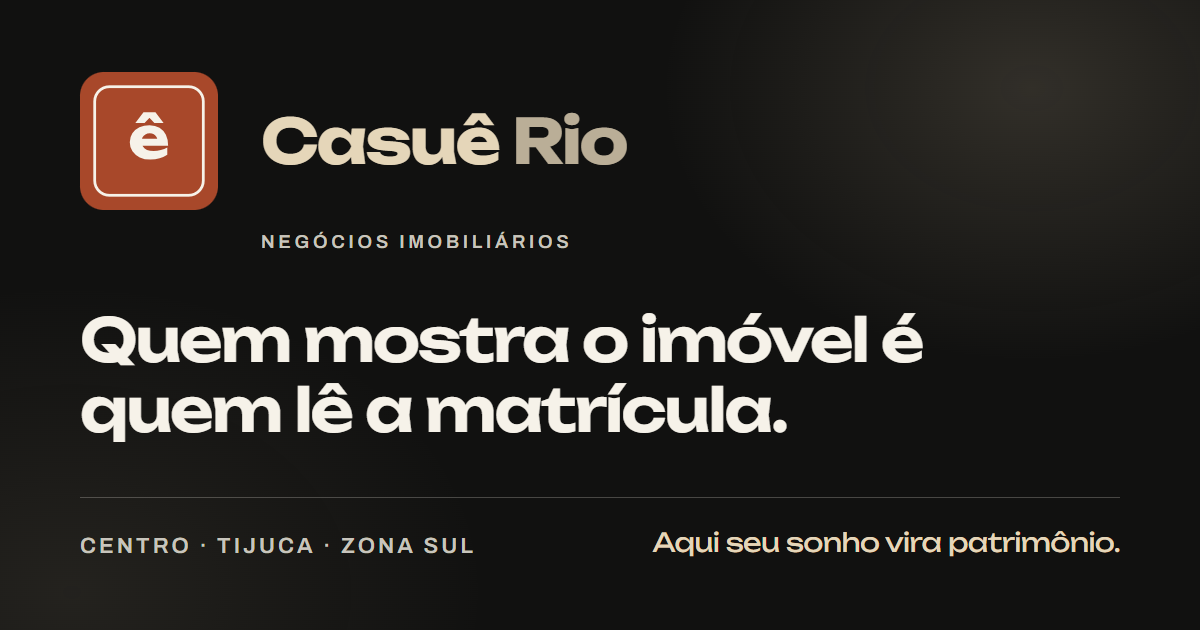
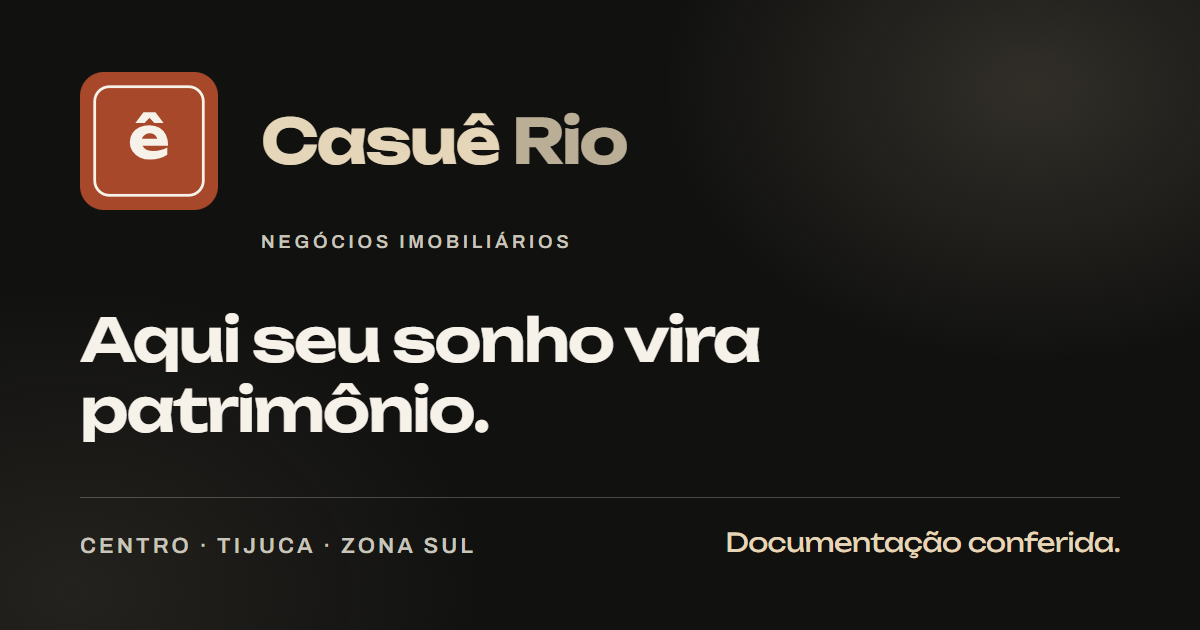
feat(marca): o slogan vira a manchete, e a revista liga sozinha
As sócias não gostaram de "Quem mostra o imóvel é quem lê a matrícula". Ela
não era uma frase secundária: era o h1 da home, o título do cartão de
compartilhamento e a descrição do site na busca, ou seja, a primeira coisa
que qualquer pessoa lia. Saiu de tudo, e a constante FRASE deixou de existir.

Quem assumiu é o SLOGAN, "Aqui seu sonho vira patrimônio", que é delas e que
elas já tinham pedido para usar mais. Duas frases de marca no código davam
dois títulos concorrentes, e foi por isso que a home chegou a mostrar as duas
em telas seguidas; agora é uma só.

A faixa de vídeo da home, que carregava o slogan, passou a dizer o que o
vídeo mostra e que precisava de legenda: por que o cômodo está vazio.

🔴 O cartão de compartilhamento saiu CORTADO na primeira tentativa: a linha
do rodapé passava da borda de 1200px em Unbounded 26. Encurtada e conferida
no PNG, não no código.

REVISTA: a página do artigo agora liga e desliga sozinha.

`scripts/preparar-revista.mjs` roda antes de todo build, pergunta ao painel
quantos artigos estão publicados e copia `_artigo/` para `[slug]/` se houver,
ou apaga se não houver. Provado nos dois sentidos: criei um artigo de ensaio,
o build gerou `/revista/ensaio-temporario` com título, data, autora e corpo
certos, apaguei o artigo e a rota se desligou.

A versão anterior disto era um `mv` na mão escrito no README, e estava
errado: significava que no dia da primeira publicação o site republicaria sem
[…]

Changed region(s): [[0.0617, 0.4825, 0.7708, 0.6032], [0.0617, 0.6032, 0.6783, 0.6937], [0.5242, 0.8444, 0.925, 0.9048]]

diff --git a/web/src/app/page.tsx b/web/src/app/page.tsx
@@ -45,11 +45,14 @@ export default function Home() {
       <Abertura>
         <EntradaAbertura>
           <Painel variante="escuro" className="max-w-3xl rounded-[1rem] p-8 sm:p-12">
+            {/* 🔴 O h1 mudou em 17/09/2026. Era "Quem mostra o imóvel é quem
+                lê a matrícula.", e as sócias não gostaram. Quem assumiu é o
+                slogan delas, que já era o pedido: usar essa frase mais. */}
             <h1
               data-entra="titulo"
-              className="max-w-[19ch] font-display text-[clamp(1.9rem,min(5.2vw,6.4svh),4.25rem)] leading-[1.03] text-papel"
+              className="max-w-[16ch] font-display text-[clamp(1.9rem,min(5.2vw,6.4svh),4.25rem)] leading-[1.03] text-papel"
             >
-              Quem mostra o imóvel é quem lê a matrícula.
+              {SLOGAN}
             </h1>
           </Painel>
 
@@ -129,21 +132,25 @@ export default function Home() {
         </div>
       </Revela>
 
-      {/* ======================================================== SLOGAN
-          O slogan da marca, dentro do imóvel. Chega DEPOIS de a página ter
-          mostrado o que promete, que é a ordem certa: primeiro a prova,
-          depois a frase. */}
+      {/* ========================================================== FAIXA
+          🔴 Esta faixa carregava o slogan. Com ele promovido a h1, repetir
+          aqui seria a mesma frase duas vezes na mesma rolagem, que é
+          exatamente o defeito que este corte de home veio consertar.
+
+          O que ela diz agora é o que o vídeo mostra e que precisava de
+          legenda: por que o cômodo está vazio. É afirmação, não enfeite —
+          quem chega de outro site de imobiliária está acostumado a sala
+          montada com móvel que não vai junto. */}
       <FaixaVideo
         fonte={arquivo("/video/sala.mp4")}
         poster={posterSala}
         altura="min-h-[24rem] sm:min-h-[32rem]"
       >
-        <p className="font-display text-[clamp(1.8rem,4.4vw,3.2rem)] font-semibold leading-[1.1] tracking-[-0.03em] text-papel">
-          {SLOGAN}
+        <p className="max-w-[18ch] font-display text-[clamp(1.8rem,4.4vw,3.2rem)] font-semibold leading-[1.1] tracking-[-0.03em] text-papel">
+          O imóvel vazio é o que a gente entrega.
         </p>
         <p className="mt-5 max-w-[42ch] text-base text-tinta-200 sm:text-lg">
-          Sem móvel e sem montagem: o imóvel vazio é o que a gente entrega para
-          você imaginar o seu.
+          Sem móvel e sem montagem. O resto quem imagina é você.
         </p>
       </FaixaVideo>
 

diff --git a/web/src/app/quem-somos/page.tsx b/web/src/app/quem-somos/page.tsx
@@ -5,12 +5,12 @@ import { Revela } from "@/components/entrada";
 import { Painel } from "@/components/painel";
 import { arquivo } from "@/lib/caminho";
 import posterGradil from "../../../public/video/gradil.webp";
-import { SOCIAS, SLOGAN, FRASE, metaDaPagina } from "@/lib/site";
+import { SOCIAS, SLOGAN, metaDaPagina } from "@/lib/site";
 
 export const metadata = metaDaPagina({
   titulo: "Quem somos",
   descricao:
-    "Duas corretoras e avaliadoras no Rio de Janeiro, com CRECI e CNAI. Quem mostra o imóvel é quem lê a matrícula e quem assina o contrato.",
+    "Duas corretoras e avaliadoras no Rio de Janeiro, com CRECI e CNAI. Quem mostra o imóvel é quem cuida da papelada e quem assina o contrato.",
   caminho: "/quem-somos",
 });
 
@@ -42,23 +42,22 @@ export default function PaginaQuemSomos() {
       </p>
 
       {/* ======================================================== A PROMESSA
-          As duas frases da marca, juntas e uma vez só. A de cima é o que a
-          empresa faz; a de baixo é para quê. */}
+          🔴 Aqui havia DUAS frases de marca lado a lado, e uma delas saiu do
+          projeto inteiro em 17/09/2026 porque as sócias não gostaram. Ficou
+          uma só, que é o slogan delas, e ela agora é a manchete — no site
+          inteiro, não só aqui. */}
       <Revela className="trilho secao">
         <div className="grid gap-10 lg:grid-cols-[1.3fr_1fr] lg:items-end">
           <h2
             data-revela
-            className="max-w-[20ch] text-[clamp(1.9rem,4vw,3.1rem)] leading-[1.08]"
+            className="max-w-[16ch] text-[clamp(1.9rem,4vw,3.1rem)] leading-[1.08]"
           >
-            {FRASE}
+            {SLOGAN}
           </h2>
           <div data-revela className="border-t border-terracota-600/30 pt-6">
-            <p className="font-display text-xl font-semibold text-terracota-600">
-              {SLOGAN}
-            </p>
-            <p className="mt-4 text-lg leading-relaxed text-tinta-500">
+            <p className="text-lg leading-relaxed text-tinta-500">
               Você não é passado para outro setor. Quem abre a porta do imóvel é
-              a mesma que levanta a matrícula, conversa com o condomínio e senta
+              a mesma que levanta a papelada, conversa com o condomínio e senta
               na assinatura.
             </p>
           </div>

diff --git a/web/src/lib/site.ts b/web/src/lib/site.ts
@@ -23,11 +23,17 @@ export const DESCRICAO =
 /* As duas frases da marca ficam aqui porque aparecem em lugares que não se
    olham: a abertura, o rodapé, o cartão de compartilhamento da home e o
    cartão de cada imóvel. Espalhadas, uma correção sempre esquecia uma. */
-export const FRASE = "Quem mostra o imóvel é quem lê a matrícula.";
+/* 🔴 "Quem mostra o imóvel é quem lê a matrícula." SAIU em 17/09/2026: as
+   sócias não gostaram. Ela era o h1 da home, o título do cartão de
+   compartilhamento e a descrição do site na busca, ou seja, a primeira coisa
+   que qualquer pessoa lia. Não sobrou nenhum lugar com ela.
 
-/* 🔴 O slogan é a frase que ELAS pediram para aparecer mais, e por isso ele
-   saiu de um lugar só. Hoje ele abre a faixa de vídeo da home, fecha o
-   rodapé, assina a página de quem somos e encerra a carteira.
+   Quem assumiu o posto é o SLOGAN, que é delas e que elas pediram para usar
+   mais. Ele não é mais "a frase de apoio": é a manchete.
+
+   🔴 Não existe mais uma constante `FRASE` separada, e isso é de propósito.
+   Duas frases de marca no código davam dois títulos concorrentes, e foi por
+   isso que a home chegou a mostrar as duas em telas seguidas.
 
    Uma segunda frase vem delas e ainda não chegou. O lugar dela já existe
    aqui embaixo, VAZIO: quem consome `SEGUNDA_FRASE` some com o bloco

diff --git a/web/src/app/layout.tsx b/web/src/app/layout.tsx
@@ -3,7 +3,7 @@ import { Unbounded, Archivo, IBM_Plex_Mono } from "next/font/google";
 import "./globals.css";
 import { Topo } from "@/components/topo";
 import { Rodape } from "@/components/rodape";
-import { SITE, MARCA, NOME, DESCRICAO, FRASE, SLOGAN, ENDERECO, SOCIAS } from "@/lib/site";
+import { SITE, MARCA, NOME, DESCRICAO, SLOGAN, ENDERECO, SOCIAS } from "@/lib/site";
 import { REGIOES } from "@/lib/imoveis";
 
 /* Unbounded é a fonte da marca, escolhida pelas sócias numa folha de nove
@@ -55,7 +55,7 @@ export const metadata: Metadata = {
     /* Montada das regiões atendidas, e não escrita à mão: a lista aqui já
        ficou atrasada duas vezes, uma quando entrou região e outra quando
        saiu. Derivada, ela acompanha. */
-    description: `${FRASE} ${REGIOES.join(", ").replace(/, ([^,]+)$/, " e $1")}.`,
+    description: `${SLOGAN} ${REGIOES.join(", ").replace(/, ([^,]+)$/, " e $1")}.`,
     url: "/",
     siteName: NOME,
     locale: "pt_BR",

diff --git a/web/src/app/imoveis/[codigo]/opengraph-image.tsx b/web/src/app/imoveis/[codigo]/opengraph-image.tsx
@@ -1,6 +1,6 @@
 import { ImageResponse } from "next/og";
 import { IMOVEIS, moeda } from "@/lib/imoveis";
-import { MARCA, NOME, DESCRITIVO, FRASE } from "@/lib/site";
+import { MARCA, NOME, DESCRITIVO, SLOGAN } from "@/lib/site";
 
 /* Imagem de compartilhamento POR IMÓVEL.
 
@@ -62,7 +62,7 @@ export default async function Imagem({ params }: PageProps<"/imoveis/[codigo]">)
 
         <div style={{ display: "flex", flexDirection: "column", gap: 22 }}>
           <div style={{ display: "flex", fontSize: 74, lineHeight: 1.05, fontWeight: 700, maxWidth: 980 }}>
-            {im ? im.titulo : FRASE}
+            {im ? im.titulo : SLOGAN}
           </div>
           {im && (
             <div style={{ display: "flex", alignItems: "baseline", gap: 26 }}>

diff --git a/README.md b/README.md
@@ -311,24 +311,45 @@ Leva dois ou três minutos, e é de propósito: página de imóvel precisa exist
 pronta no HTML para o buscador indexar, e num site de imobiliária é o
 buscador que traz gente.
 
+### A página do artigo liga sozinha
+
+🔴 Com `output: export`, uma rota dinâmica que não gera nenhuma página é
+**erro duro**, não caso previsto: o build inteiro cai. Ou seja, a página do
+artigo não pode existir em `[slug]/` enquanto não houver texto publicado.
+
+Quem resolve é `web/scripts/preparar-revista.mjs`, que roda antes de todo
+build: pergunta ao painel quantos artigos estão publicados e copia
+`_artigo/` para `[slug]/` se houver, ou apaga `[slug]/` se não houver. A
+fonte versionada é `_artigo/`; a cópia está no `.gitignore`.
+
+A primeira versão disto era um `mv` na mão, escrito aqui. Estava errado:
+significava que no dia da primeira publicação o site republicaria sem o texto,
+porque alguém esqueceu um comando que ninguém leu. Automação que depende de
+memória humana é o mesmo que não ter automação.
+
+🔴 O script lê `.env.local` por conta própria, e isso também foi defeito
+antes: ele roda FORA do Next, e quem carrega `.env.local` é o Next. Sem isso
+a rota era desligada em silêncio na máquina de quem trabalha no site, e
+funcionava na publicação — o pior tipo de defeito, o que só aparece para quem
+desenvolve.
+
 ### O que falta ligar
 
-1. Criar o projeto em `sanity.io` e anotar o `projectId`.
-2. No GitHub, em Settings > Secrets and variables > Actions > **Variables**,
-   criar `SANITY_PROJECT_ID` e `SANITY_DATASET`. Não são segredos: a chave
-   pública da Sanity só lê, e só o que está publicado.
-3. `cd estudio && npm run deploy`, e convidar as duas por e-mail.
-4. 🔴 Quando o primeiro artigo for publicado, ligar a página do artigo:
+1. 🟢 Projeto criado: `hpmn0ser`, conjunto `production`.
+2. 🟢 `SANITY_PROJECT_ID` e `SANITY_DATASET` já estão em Settings > Secrets
+   and variables > Actions > **Variables**. Não são segredos: a chave pública
+   da Sanity só lê, e só o que está publicado.
+3. 🟢 Os nove imóveis e os três bairros já estão no painel, pelo
+   `estudio/migrar.mjs`.
+4. Publicar o painel, que precisa de login no navegador:
 
    ```bash
-   mv web/src/app/revista/_artigo web/src/app/revista/"[slug]"
+   cd estudio
+   npx sanity login
+   npm run deploy
    ```
 
-   Ela está pronta e parada numa pasta com underscore, que o Next não trata
-   como rota. O motivo é uma regra que eu descobri quebrando o build: com
-   `output: export`, uma rota dinâmica que não gera nenhuma página é **erro
-   duro**, não caso previsto. Com zero artigos, o arquivo em `[slug]/`
-   derrubaria toda publicação do site.
+5. Criar o webhook de republicação, na tabela acima.
 
 ---
 
